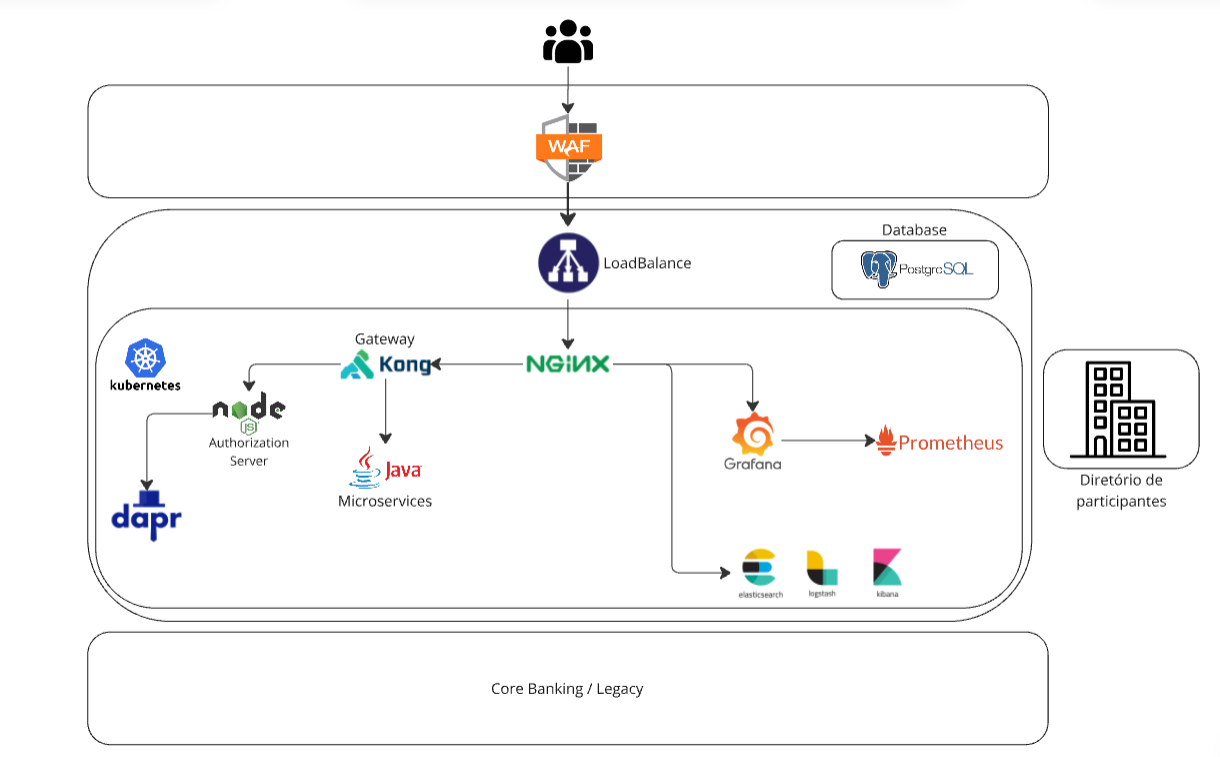
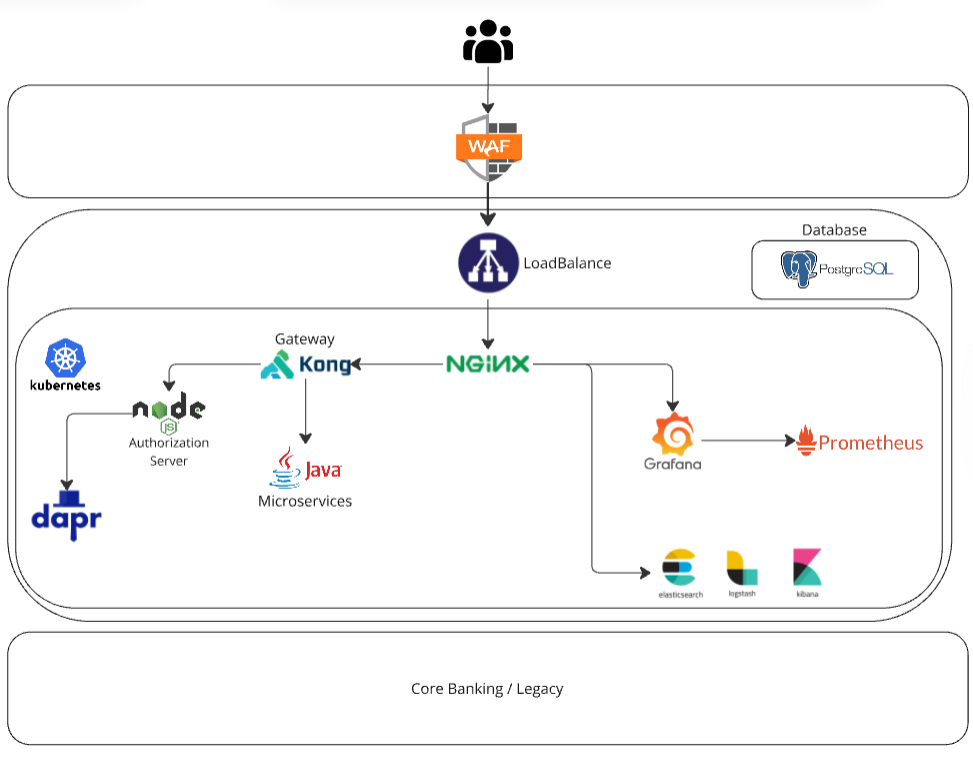
Ajuste de diagrama de arquitetura na página de deploy em inglês.

diff --git a/docs/en/Open-Finance/Plataforma-OpusOpenFinance/Implantação/OOF-Deploy.md b/docs/en/Open-Finance/Plataforma-OpusOpenFinance/Implantação/OOF-Deploy.md
@@ -14,16 +14,19 @@ This document aims to guide the replication of our Open Finance infrastructure i
 ---
 
 ## Introduction to Open Finance Brasil
+
 Open Finance Brasil is a regulated system that enables the secure sharing of financial data between authorized institutions, with user consent. Its goal is to promote greater competitiveness, financial inclusion, and innovation through the interoperability of financial systems. Our infrastructure is designed to meet the requirements of this ecosystem, ensuring security and reliability in data handling.
 
 ---
 
 ## Opus Open Finance Architecture Diagram
-*(Insert Architecture Diagram here - sent by email)*
+
+![Architecture][Architecture Diagram]
 
 ---
 
 ## Requirements
+
 To use Opus Open Finance, the following requirements must be met:
 
 1. **Kubernetes Cluster**:
@@ -52,6 +55,7 @@ To use Opus Open Finance, the following requirements must be met:
 ---
 
 ## About Terragrunt
+
 The entire infrastructure of the Opus Open Finance Platform is built using Terraform scripts. To facilitate infrastructure-as-code management, we use **Terragrunt**, a tool that provides an abstraction layer to simplify common Terraform tasks such as managing configurations, dependencies, and environments. This makes the implementation and maintenance process easier for users.
 
 Some of the key features of Terragrunt include its **hierarchical model**, where configurations are inherited from "parent" files using the `include` block. To better understand this functionality, it is recommended to read the article provided by the Terragrunt team: [link](https://terragrunt.gruntwork.io/docs/features/keep-your-terragrunt-architecture-dry/).
@@ -61,14 +65,17 @@ The structure is divided into two main components: **Core** and **Client**, whic
 ---
 
 ## Microservices and Containers Compatibility
+
 Our microservices are packaged and executed in containers, ensuring portability and consistency across environments. The infrastructure supports multiple orchestration platforms based on Kubernetes and is compatible with Kubernetes versions up to **1.30**, allowing flexibility for on-premise or cloud environments.
 
 ---
 
 ## Hierarchy
+
 The code hierarchy is essential to ensure modularity and reusability. Terragrunt allows separation into two parts: **Core** and **Client**:
 
 ### Core
+
 - **Terraform Modules**: Contains the Terraform code for components.
 - **Terragrunt Templates**: Terragrunt files used as "templates". These define much of the "intelligence" of the code, including default variables for each context and the dependency logic between components. Whenever you want to understand how a variable is configured, this is the first place to look.
 - **Scripts**: Auxiliary scripts, such as those handling the encryption and decryption logic for the `secrets.tfvars.encrypted` files.
@@ -76,6 +83,7 @@ The code hierarchy is essential to ensure modularity and reusability. Terragrunt
 - **opus.hcl**: Contains Opus-specific configurations used by certain components, such as the product's image repository address.
 
 ### Client
+
 - **client.hcl**: Global configurations for all environments, e.g., organization and brand information.
 - **env.hcl**: Environment-specific configurations, defining versions to be used (for both applications and the core), Open Banking participant directory information, database addresses, URL modifications, among others.
 - **namespace.hcl**: Namespace-specific configurations for the Kubernetes cluster.
@@ -84,7 +92,8 @@ The code hierarchy is essential to ensure modularity and reusability. Terragrunt
 ---
 
 ## Automatic Core Download
-Before executing each component, the script `opus_get_core.sh` is run. This script is responsible for automatically cloning the Core repository if it does not already exist.
+
+Before executing each component, the script `opus_get_core.sh` is run. This script is responsible for automatically cloning the core repository if it does not already exist.
 
 The script determines the Core version to be used by referencing the appropriate `env.hcl` file. To correctly identify the environment, the environment directory name must match the `env_path` regex specified in the script.
 
@@ -93,9 +102,11 @@ For example codebases (where the Core version is set to `example`), the Core is 
 ---
 
 ## Secrets
+
 All sensitive configurations are stored in an encrypted file named `secrets.encrypted.tfvars`. This file is decrypted and read by Terragrunt during runtime. It allows you to define variables as well as Helm values using the `values_sensitive_custom` variable, which works in the same way as the previously explained `values_custom` variable.
 
 ### Editing the Encrypted File
+
 The encrypted file can only be edited using **sops**. Before editing, the private key from the cluster must be saved locally by running the following command:
 
 ```shell
@@ -103,80 +114,100 @@ export SOPS_AGE_KEY_FILE="$HOME/.config/sops/age/keys.txt" && \
 $(find $(git rev-parse --show-toplevel) -name 'save_keys.sh' | head -n1)
 ```
 
-sops `secrets.encrypted.tfvars`: When the file is saved, **sops** automatically re-encrypts it.
+The edition command should be:
+
+```shell
+sops `secrets.encrypted.tfvars`
+```
+
+When the file is saved, **sops** automatically re-encrypts it.
 
 ---
 
 ## Encryption Key Rotation
+
 **WARNING**: The following steps only rotate the key pair used to encrypt the `secrets.encrypted.tfvars` files. They do not alter the contents of these files (e.g., database access keys remain unchanged).
 
 **WARNING**: It is critical that the machine performing this rotation has access to the Git repository where the Client code is stored. This is because all files must be re-encrypted and committed to the repository during this process.
 
-### Steps:
-1. **Remove the local file containing the keys:**
+### Steps
+
+1. **Remove the local file containing the keys**
 
    ```shell
    rm $HOME/.config/sops/age/keys.txt
    ```
-2. **Apply the code to rotate the keys (generates a new pair and re-encrypts all files):**
 
-```shell
-terragrunt apply -auto-approve \
---terragrunt-working-dir '06-helm/00-oob-encrypt/01-secret-keys' \
---terragrunt-config '06-helm/00-oob-encrypt/01-secret-keys/terragrunt.rotate_keys.hcl'
-```
+2. **Apply the code to rotate the keys (generates a new pair and re-encrypts all files)**
 
-3. **Update the encrypted files in the remote repository:**
-```shell
-git add '*secret.encrypted.tfvars' && git commit -m "Encryption keys rotation" && git push
-```
+   ```shell
+   terragrunt apply -auto-approve \
+   --terragrunt-working-dir '06-helm/00-oob-encrypt/01-secret-keys' \
+   --terragrunt-config '06-helm/00-oob-encrypt/01-secret-keys/terragrunt.rotate_keys.hcl'
+   ```
 
-4. **Backup the new keys (save them remotely in a secure location):**
-```shell
-$(find $(git rev-parse --show-toplevel) -name 'get_keys.sh' | head -n1)
-```
->**Tip**: The `get_keys.sh` script returns a JSON, which simplifies the automation of step 4.
+3. **Update the encrypted files in the remote repository**
+
+   ```shell
+   git add '*secret.encrypted.tfvars' && git commit -m "Encryption keys rotation" && git push
+   ```
+
+4. **Backup the new keys (save them remotely in a secure location)**
+
+   ```shell
+   $(find $(git rev-parse --show-toplevel) -name 'get_keys.sh' | head -n1)
+   ```
+
+>**Tip** The `get_keys.sh` script returns a JSON, which simplifies the automation of step 4.
 
 ## Database: PostgreSQL
-We use PostgreSQL as the default database, recommending version 14 or higher. This database is ideal for the Open Finance ecosystem due to its robustness and scalability. If a cloud provider is used, we recommend leveraging a managed database service. 
+
+We use PostgreSQL as the default database, recommending version 14 or higher. This database is ideal for the Open Finance ecosystem due to its robustness and scalability. If a cloud provider is used, we recommend leveraging a managed database service.
 
 Our templates include scripts for creating instances, users, and databases, which can be customized as needed. To access the database, the secrets configuration must be updated in the `secrets.encrypted.tfvars` file.
 
 ---
 
 ## Messaging Service
+
 To ensure communication between our distributed services, we use message queues as an essential part of the infrastructure. These queues enable asynchronous processing and decoupling between microservices, enhancing system scalability and resilience. Technologies such as Apache Kafka, RabbitMQ, or AWS SQS can be used depending on the client's environment and requirements.
 
 ---
 
 ## Log Collectors
-Any log collection solution available in the market can be used in the infrastructure environment, as long as it is compatible with the employed technologies. This includes, but is not limited to, solutions such as ELK Stack (Elasticsearch, Logstash, Kibana), Fluentd, Prometheus, Grafana Loki, Splunk, and others. 
+
+Any log collection solution available in the market can be used in the infrastructure environment, as long as it is compatible with the employed technologies. This includes, but is not limited to, solutions such as ELK Stack (Elasticsearch, Logstash, Kibana), Fluentd, Prometheus, Grafana Loki, Splunk, and others.
 
 The ideal tool should be chosen based on the client's specific needs regarding monitoring, performance analysis, and event tracing. Log collectors must be configured to ensure efficient data capture and maintain information integrity over time. OPUS provides guidance on integrating these systems, but the responsibility for maintaining and managing the logs lies with the client.
 
 ---
 
 ## WAF (Web Application Firewall)
-The Web Application Firewall (WAF) is a critical security layer to protect web applications from common attacks and vulnerabilities, such as SQL injection, cross-site scripting (XSS), and other threats. 
+
+The Web Application Firewall (WAF) is a critical security layer to protect web applications from common attacks and vulnerabilities, such as SQL injection, cross-site scripting (XSS), and other threats.
 
 We recommend clients configure the WAF according to best security practices to ensure effective integration with the production environment. Open Finance, which involves the secure exchange of financial data between institutions, demands high-security standards, including the use of mTLS, a practice the WAF must support. OPUS offers guidance for any questions, but the ongoing management, implementation, configuration, and maintenance of the WAF are the client's responsibility.
 
 ---
 
 ## Dapr
+
 The microservices architecture is complemented by the use of **Dapr** (Distributed Application Runtime), which simplifies communication and state management between services. With Dapr, we ensure the interoperability of our distributed applications efficiently and securely.
 
 ---
 
 ## Customizations
-The installation of Opus Open Banking components is performed via **Helm**. The Helm values for each component can be customized using the `values_custom` variable on the Client side. 
+
+The installation of Opus Open Banking components is performed via **Helm**. The Helm values for each component can be customized using the `values_custom` variable on the Client side.
 
 This variable is analogous to the `values_template` variable in the template. If there are any doubts, it is recommended to consult the template. Essentially, it is an indented YAML heredoc interpreted by the Terraform module as a YAML file.
 
-### Important Note:
+### Important Note
+
 It is crucial not to define the `values_template` variable within the component (in the `inputs` field of `terragrunt.hcl`). This variable is exclusively for template use. Defining it at the component level will overwrite the template and cause the code to malfunction. Always use the `values_custom` variable instead.
 
-### Example:
+### Example
+
 ```shell
 # terragrunt.hcl
 inputs = {
@@ -199,18 +230,24 @@ inputs = {
 ```
 
 ## Execution
+
 To simplify the execution of components, we provide the `apply-all.sh` script, which applies all necessary configurations in the correct order. It is essential to follow the instructions in the script to avoid configuration errors.
 
 ---
 
 ## Important Notes
+
 Some key considerations when working with a staging/production environment:
 
-### Database:
-- The application requires the use of the **postgresql** component, but it is recommended to create a database separate from the cluster. If a cloud provider is used, we advise opting for a managed database service. The template for this component includes the necessary queries to create the databases and users required by the product.
+### Database
+
+- The application requires the use of the **PostgreSQL** component, but it is recommended to create a database separated from the cluster. If a cloud provider is used, we advise opting for a managed database service. The template for this component includes the necessary queries to create the databases and users required by the product.
 - Once the instance is created, the host must be configured in the `db_host` field of the `env.hcl` file. Additionally, the `secrets.encrypted.tfvars` files for components connecting to the database must be updated with the password of the respective user.
 - For example, in the `secrets.encrypted.tfvars` file for the **oob-consent** component, you need to replace `changeThis` with the password for the user **oob_consent_user**, and so on.
 
-### Cert-manager Component:
+### Cert-manager Component
+
 - Useful in staging environments for automatically generating Let's Encrypt certificates.
 - In production, it is not required, as all production certificates must be obtained from a certification authority per the ecosystem's regulatory specifications.
+
+[Architecture Diagram]: ./images/Arquitetura.png

diff --git a/docs/en/Open-Finance/Plataforma-OpusOpenFinance/Implantação/OOF-Implantação.md b/docs/en/Open-Finance/Plataforma-OpusOpenFinance/Implantação/OOF-Implantação.md
@@ -20,7 +20,7 @@ It is important to highlight that the most labor-intensive stages of the deploym
 
 ## Deployment Roadmap
 
-![Roadmap](./images/implantação.png)
+![Roadmap][Implementation Roadmap]
 
 ### 1. **Kickoff**
 
@@ -95,3 +95,4 @@ It is important to highlight that the most labor-intensive stages of the deploym
 - Submission of regulatory reports.
 
 [Site-OpenID]: https://openid.net/certification/#FAPI_OPs
+[Implementation Roadmap]: ./images/implantação.png
